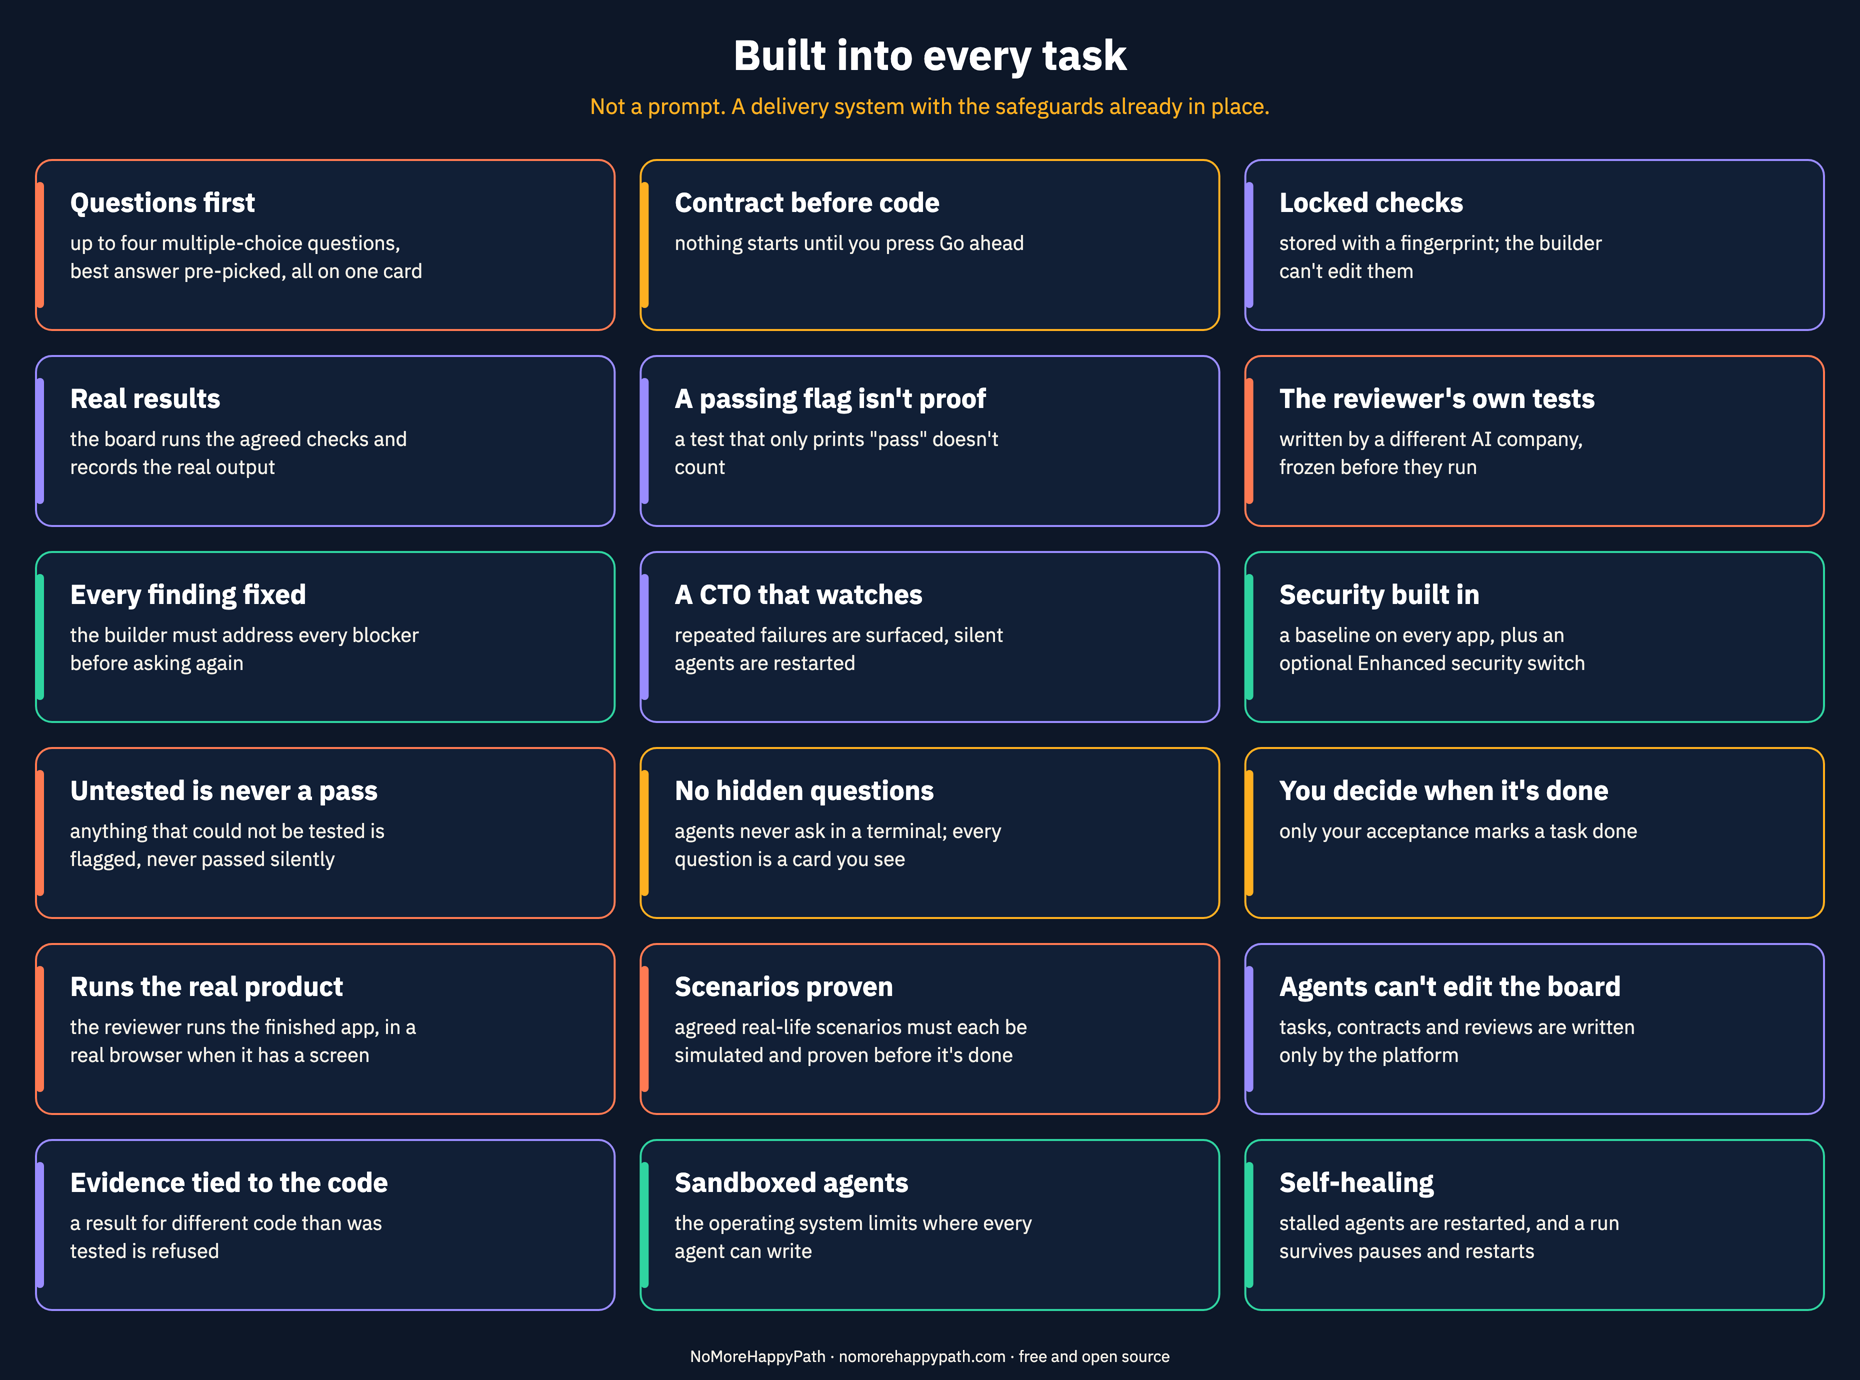
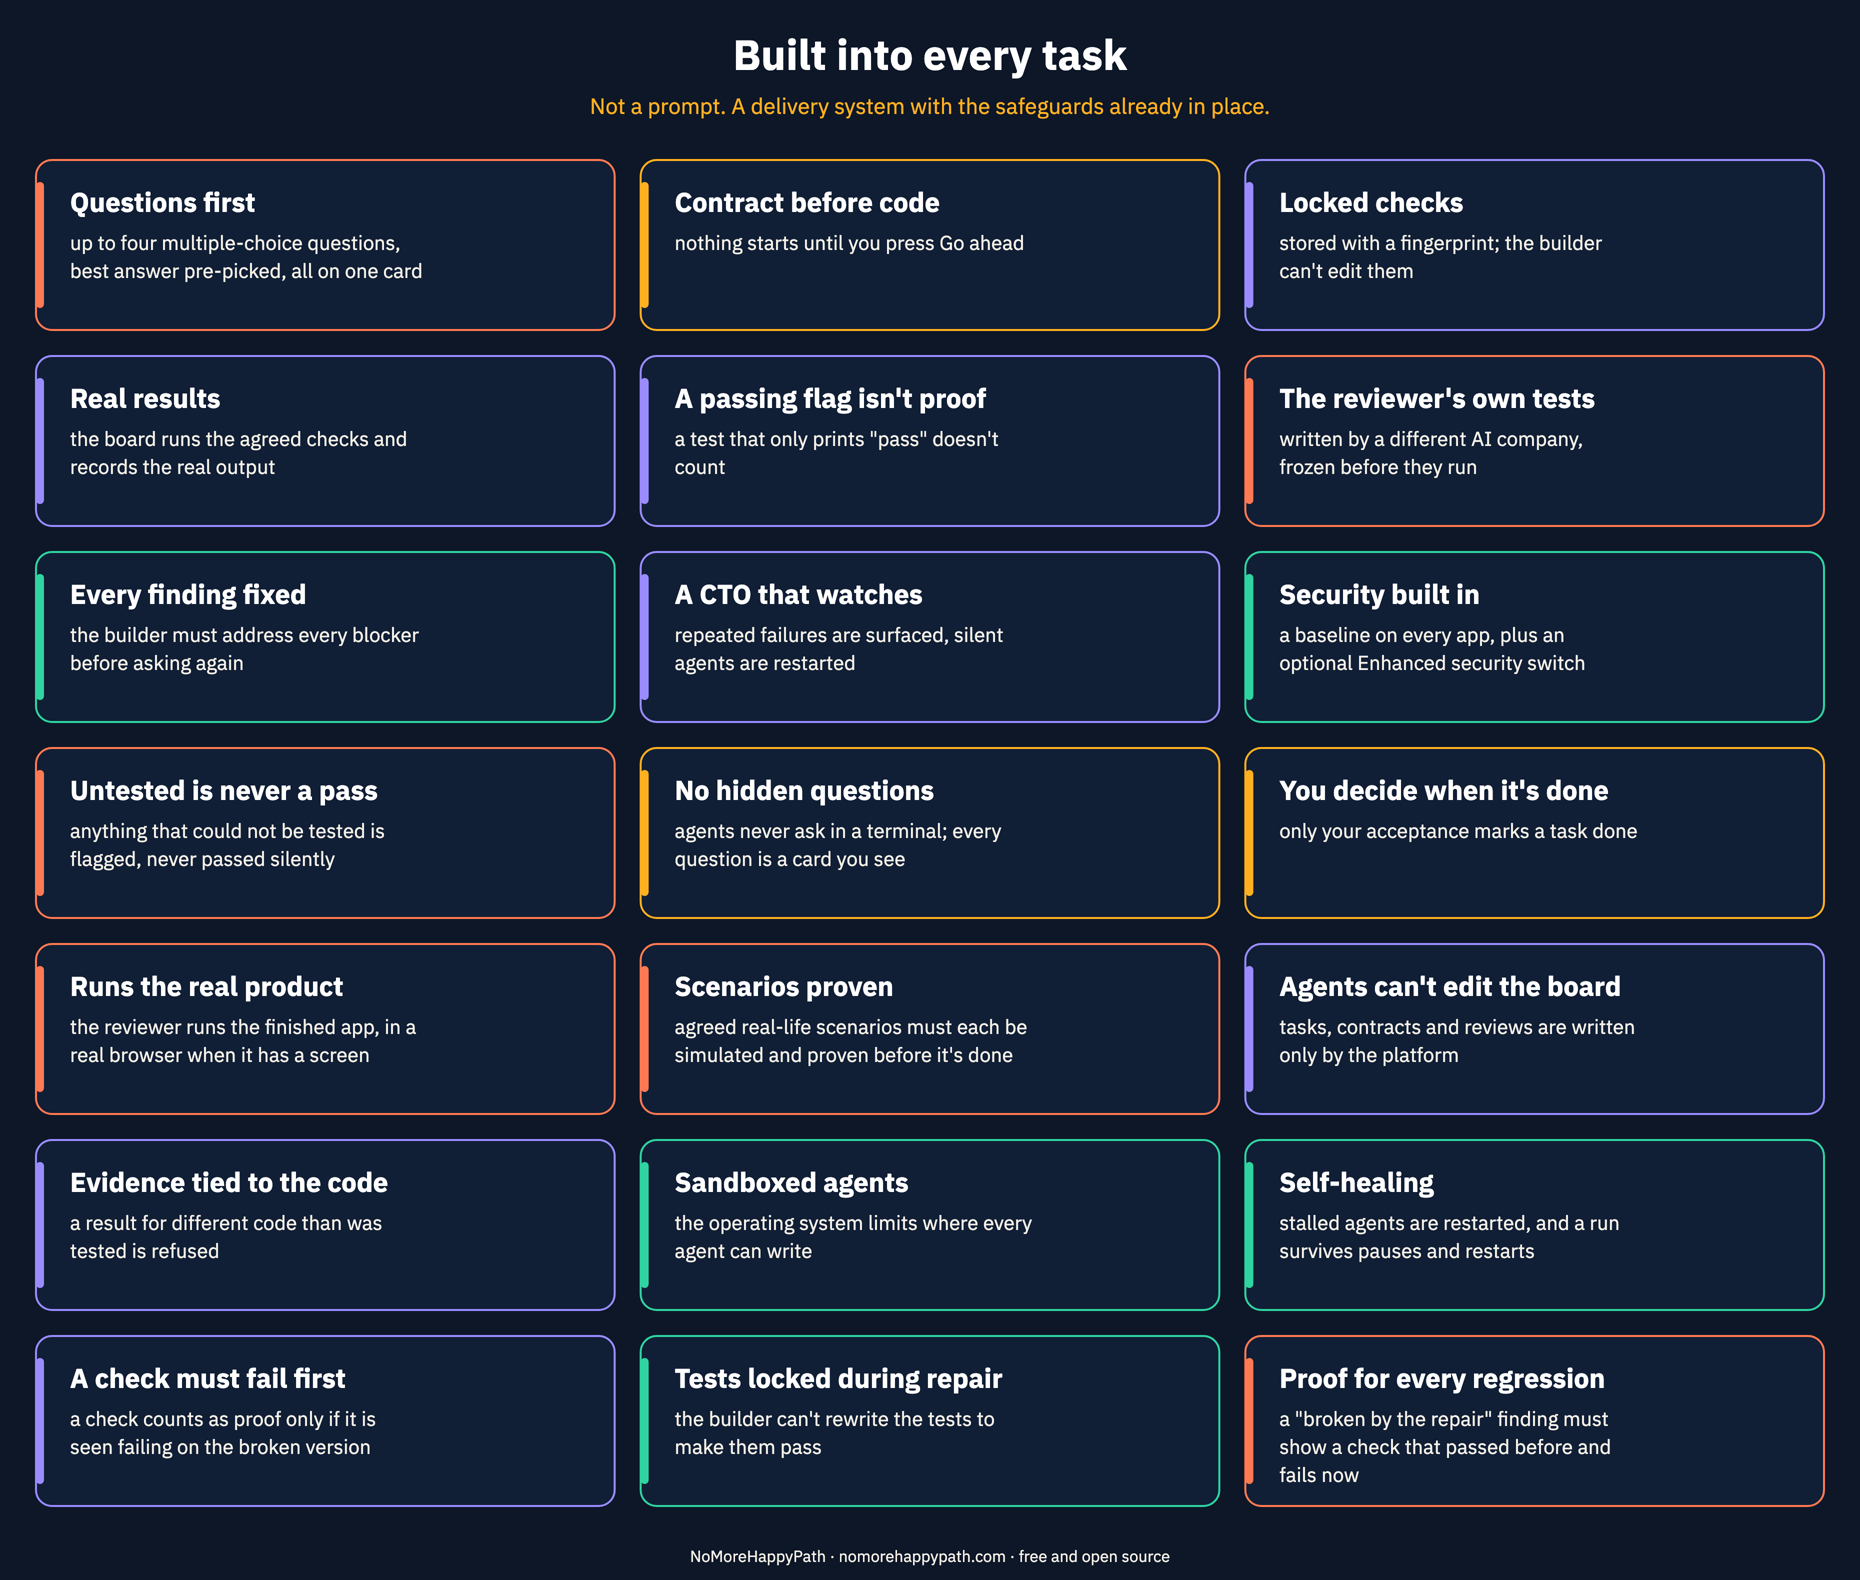
Update the built-in safeguards panel to 21 tiles

Changed region(s): [[0.0, 0.0312, 0.9667, 0.9971], [0.0312, 0.8413, 0.3118, 0.9659]]

diff --git a/index.html b/index.html
@@ -264,7 +264,7 @@
       <div class="narrow"><p>Everything needed to take an idea to accepted, release-ready software runs on your own machine, and the safeguards are already in place. Most AI-built apps ship without the things that quietly sink real products, because nobody thought to ask.</p></div>
       <div class="flow" style="margin-bottom:8px">
         <div class="flow-d">
-        <a class="zoom" href="assets/built-in-checks.png" target="_blank" rel="noopener"><img src="assets/built-in-checks.png" width="1860" height="1380" loading="lazy" alt="Eighteen safeguards built into every task: questions first, contract before code, locked checks, real results, a passing flag is not proof, the reviewer’s own tests, every finding fixed, a CTO that watches, security built in, untested is never a pass, no hidden questions, you decide when it is done, the reviewer runs the real product, scenarios proven, agents cannot edit the board, evidence tied to the code, sandboxed agents, and self-healing."></a>
+        <a class="zoom" href="assets/built-in-checks.png" target="_blank" rel="noopener"><img src="assets/built-in-checks.png" width="1860" height="1580" loading="lazy" alt="Twenty-one safeguards built into every task: questions first, contract before code, locked checks, real results, a passing flag is not proof, the reviewer’s own tests, every finding fixed, a CTO that watches, security built in, untested is never a pass, no hidden questions, you decide when it is done, the reviewer runs the real product, scenarios proven, agents cannot edit the board, evidence tied to the code, sandboxed agents, self-healing, a check must fail first, tests locked during repair, and proof for every regression."></a>
         </div>
         <div class="flow-m">
           <ul class="flow-list tiles-m">
@@ -286,6 +286,9 @@
           <li style="border-color:#9a8cff"><b>Evidence tied to the code</b><span>a result for different code than was tested is refused</span></li>
           <li style="border-color:#2fd4a0"><b>Sandboxed agents</b><span>the operating system limits where every agent can write</span></li>
           <li style="border-color:#2fd4a0"><b>Self-healing</b><span>stalled agents are restarted, and a run survives pauses and restarts</span></li>
+          <li style="border-color:#9a8cff"><b>A check must fail first</b><span>a check counts as proof only if it is seen failing on the broken version</span></li>
+          <li style="border-color:#2fd4a0"><b>Tests locked during repair</b><span>the builder can&#x27;t rewrite the tests to make them pass</span></li>
+          <li style="border-color:#ff7a52"><b>Proof for every regression</b><span>a &quot;broken by the repair&quot; finding must show a check that passed before and fails now</span></li>
           </ul>
         </div>
       </div>
